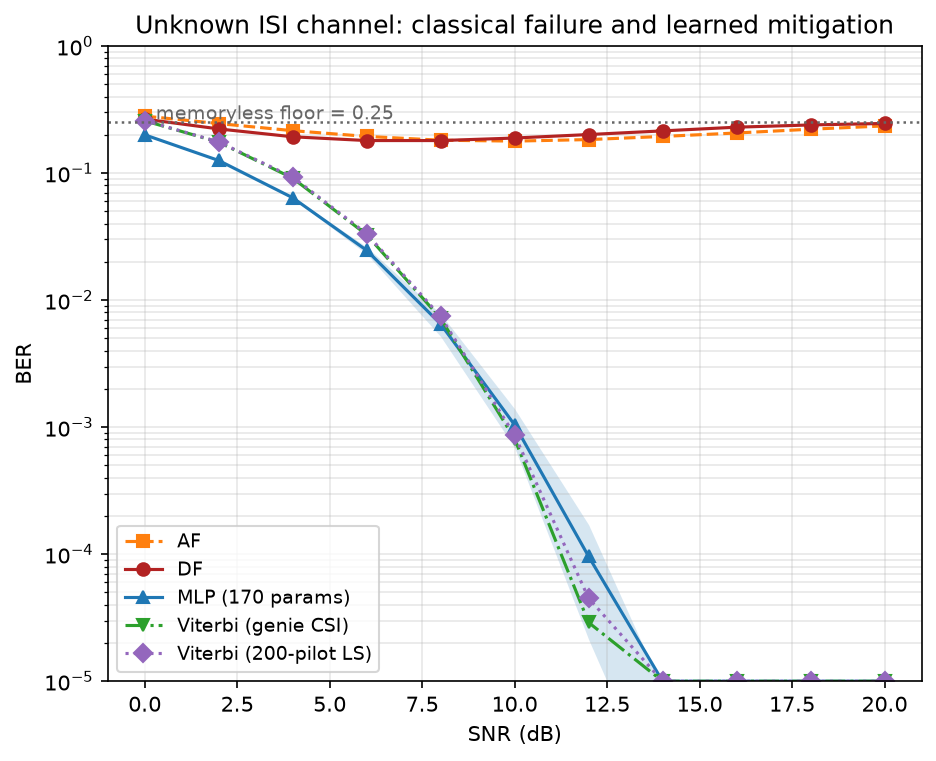
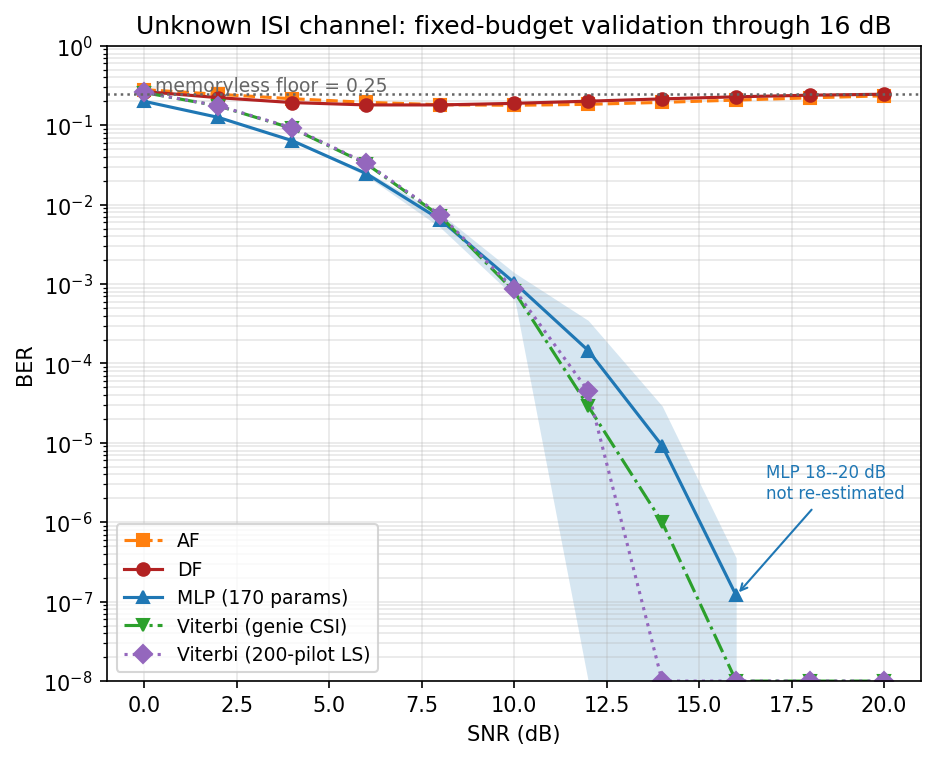
codex: update original ISI validation figure

diff --git a/thesis/chapters/ch07_unknown_and_mismatch_channels.tex b/thesis/chapters/ch07_unknown_and_mismatch_channels.tex
@@ -2,7 +2,7 @@
 
 This is the central chapter of the thesis. Everything before it is either calibration or a confirmatory result: on a matched, known channel a minimal learned relay does \emph{not} improve on classical decode-and-forward (H2), and raising the constellation order does not change that. Here the learned relay provides its clearest advantage over the memoryless classical relay baselines, while remaining below the performance of correctly informed sequence-optimal or BER-optimal classical detectors.
 
-The condition under which it wins is precise, and stating it is as much a part of the claim as the win itself. \textbf{When the channel's structure is unknown to the receiver chain, or lies outside the model class the classical relay assumes, a fixed 170-parameter learned relay restores reliable relaying where the evaluated memoryless classical relays, AF and zero-threshold symbol-wise DF, fail outright.} Under three-tap intersymbol interference (Table~\ref{tbl:tableE6}) the classical relays do not degrade gracefully: they saturate near the analytic $0.25$ floor and then get \emph{worse} as the SNR rises, symbol-wise DF bottoming out near 8~dB and climbing thereafter as hard decisions lock the interference in. No increase in transmit power removes this error floor for the memoryless relay architecture considered here. The learned relay, whose length-11 window spans the channel memory, restores a monotonically falling BER, with a substantial reduction at the fixed-budget operating points. The historical 16--20~dB rare-event estimates require independent fixed-budget validation. What separates the two is the function class and not the information available: this filter is fixed, and the relay is trained on it, whereas genie-CSI Viterbi receives exact taps at inference. Training on a fixed filter and receiving its exact coefficients are different forms of information. The evaluated zero-threshold symbol-wise slicer cannot compensate for the selected ISI channel at any transmit power. A detector whose observation spans the channel memory can exploit the additional temporal information; the windowed MLP evaluated here does so successfully, though spanning the memory is a necessary condition rather than a sufficient one. Whether a learned relay also copes with a channel it has \emph{not} seen is a separate question, answered at layers~3 and~4 below, where the channel is redrawn every block. That is not a marginal gain over a classical baseline; it is the difference between a working link and a broken one, and it is the thesis's answer to whether learning can defeat classical processing in relaying.
+The condition under which it wins is precise, and stating it is as much a part of the claim as the win itself. \textbf{When the channel's structure is unknown to the receiver chain, or lies outside the model class the classical relay assumes, a fixed 170-parameter learned relay restores reliable relaying where the evaluated memoryless classical relays, AF and zero-threshold symbol-wise DF, fail outright.} Under three-tap intersymbol interference (Table~\ref{tbl:tableE6}) the classical relays do not degrade gracefully: they saturate near the analytic $0.25$ floor and then get \emph{worse} as the SNR rises, symbol-wise DF bottoming out near 8~dB and climbing thereafter as hard decisions lock the interference in. No increase in transmit power removes this error floor for the memoryless relay architecture considered here. The learned relay, whose length-11 window spans the channel memory, restores a falling BER through the fixed-budget measurements at 12--16~dB, with a substantial reduction at those operating points. The historical 18--20~dB rare-event estimates remain exploratory pending independent fixed-budget validation. What separates the two is the function class and not the information available: this filter is fixed, and the relay is trained on it, whereas genie-CSI Viterbi receives exact taps at inference. Training on a fixed filter and receiving its exact coefficients are different forms of information. The evaluated zero-threshold symbol-wise slicer cannot compensate for the selected ISI channel at any transmit power. A detector whose observation spans the channel memory can exploit the additional temporal information; the windowed MLP evaluated here does so successfully, though spanning the memory is a necessary condition rather than a sufficient one. Whether a learned relay also copes with a channel it has \emph{not} seen is a separate question, answered at layers~3 and~4 below, where the channel is redrawn every block. That is not a marginal gain over a classical baseline; it is the difference between a working link and a broken one, and it is the thesis's answer to whether learning can defeat classical processing in relaying.
 
 The boundary of the claim is equally important. No statistically resolved advantage over matched MLSE is observed: given a reliable channel estimate, pilot-aided Viterbi remains ahead by approximately $1$--$1.5$~dB over the reported operating range. This is empirical, not an impossibility result, because MLSE minimizes sequence error rather than BER; the BER-optimal matched comparator is a bit-MAP/BCJR receiver. That comparator is reported at QPSK (Section~\ref{sec:bcjr-benchmark}), where it is never worse than MLSE but does not overturn the margin reported here; it is unmeasured at BPSK. The learned relay's advantage is therefore not demonstrated superior detection but the absence of a per-block channel-estimation precondition. Where the channel is fixed and known to both, it is simply the cheaper detector, constant and parallelizable per symbol against the trellis's $M^{L}$ branch metrics over $M^{L-1}$ states; where the channel must be identified and cannot be, it is the one that still functions, needing no per-block estimate --- though it is trained on the impairment family, and so is realization-agnostic rather than family-agnostic. Where the classical pipelines evaluated here can identify the channel they should be used; where they cannot, the learned relay is what still works. That is a statement about these comparators, not about classical receiver design in general.
 
@@ -23,7 +23,7 @@ Layer & Assumptions & Strongest classical & Outcome \\
 \bottomrule\noalign{}
 \endlastfoot
 1 & Memoryless, known channel, perfect CSI (Chapter~\ref{sec:experiments}) & Symbol-wise DF, zero trainable parameters & \textbf{Classical wins.} On the canonical QPSK/Rayleigh setup itself (Table~\ref{tbl:table2}), DF $0.1218$ against the MLP's $0.1229$ at 8~dB: the learned relay only matches DF, at 169 parameters against none (H2). \\
-2 & \;+ channel memory (3-tap ISI), CSI still perfect (Section~\ref{sec:unknown-channel-experiment}) & Viterbi MLSE with exact taps & \textbf{Split.} The memoryless relays break outright, DF rising from $0.1802$ at 8~dB to $0.2457$ at 20~dB. The MLP restores the link ($0.0065$ at 8~dB, against genie-CSI Viterbi's $0.0072$ at the same point --- the two are not separated there, and the ordering is nominally the MLP's). Viterbi's advantage is \emph{horizontal}, 1--1.5~dB of transmit power read across the mid-range of Figure~\ref{fig:figE6}, not a lower BER at every measured point; by 12~dB it is below the $5\times10^{-5}$ measurement floor while the MLP reads $9.60\times10^{-5}$. Neither is given an advantage in channel knowledge here --- the filter is fixed, supplied exactly to the trellis and represented directly in the relay's training data --- so this layer separates function classes rather than channel knowledge. The two forms of knowledge are not equivalent, and the row should not be read as claiming they are: the trellis holds the taps exactly at inference, whereas the relay holds them only as far as finite training data and a finite window let its weights approximate them. \\
+2 & \;+ channel memory (3-tap ISI), CSI still perfect (Section~\ref{sec:unknown-channel-experiment}) & Viterbi MLSE with exact taps & \textbf{Split.} The memoryless relays break outright, DF rising from $0.1802$ at 8~dB to $0.2457$ at 20~dB. The MLP restores the link ($0.0065$ at 8~dB, against genie-CSI Viterbi's $0.0072$ at the same point --- the two are not separated there, and the ordering is nominally the MLP's). Viterbi's advantage is \emph{horizontal}, 1--1.5~dB of transmit power read across the mid-range of Figure~\ref{fig:figE6}, not a lower BER at every measured point; by 12~dB it is below the $5\times10^{-5}$ measurement floor while the fixed-budget MLP estimate is $1.46\times10^{-4}$. Neither is given an advantage in channel knowledge here --- the filter is fixed, supplied exactly to the trellis and represented directly in the relay's training data --- so this layer separates function classes rather than channel knowledge. The two forms of knowledge are not equivalent, and the row should not be read as claiming they are: the trellis holds the taps exactly at inference, whereas the relay holds them only as far as finite training data and a finite window let its weights approximate them. \\
 3 & \;+ CSI uncertainty: a finite pilot budget (Section~\ref{sec:partial-posterior}) & Pilot-aided LS estimate then MLSE & \textbf{Crossover.} At 10~dB, Viterbi-est holds $0.0283$ on 200 pilots and $0.0335$ on 20, both beating the pilot-free MLP's $0.0486$; by 10 pilots it has degraded to $0.0545$ and the MLP leads. The classical advantage is real but purchased with pilots. \\
 4 & \;+ unseen realization from the trained family, redrawn per block (Sections~\ref{sec:composite-channel}, \ref{sec:blind-channel}) & CMA blind equalization & \textbf{Learned relay wins.} At 20~dB the MLP reaches $0.00262$ against CMA's $0.00329$, while decision-directed blind MLSE is unstable, non-monotonic and worse at 20~dB ($0.0498$) than at 16~dB ($0.0374$). The margin in BER is modest; the margin in stability and in per-block cost is not. \\
 \end{longtable}
@@ -141,17 +141,17 @@ Branch asymmetry & DF & 0.0669 & 0.0286 & 0.0121 / 0.0050 \\
  & MLP-170 & 0.0671 & 0.0287 & 0.0121 / 0.0050 \\
 \end{longtable}
 
-\textbf{Conclusion (H5: confirmed as stated, with one boundary):} Against the flat-channel control of Section~\ref{sec:flat-unknown-channels}, where unknown parameters alone caused no classical failure, the memory case is qualitatively different. On the unknown ISI channel, both evaluated memoryless classical relays --- AF and zero-threshold symbol-wise DF --- fail: DF's BER is \emph{non-monotonic}, bottoming out around 8 dB and then rising toward the analytic $0.25$ floor (Table~\ref{tbl:tableE6}; more transmit power makes DF strictly worse), and AF behaves identically. The 170-parameter MLP, whose window spans the 3-tap memory, learns a joint equalizer--detector and restores reliable relaying: its BER falls monotonically across the same sweep (Table~\ref{tbl:tableE6}). The Viterbi benchmarks set that boundary honestly: classical theory \emph{does} solve this channel once its family is known, and genie-CSI MLSE leads the MLP by 1--1.5 dB of transmit power across the mid-range; a 200-pilot LS estimate recovers genie performance almost exactly there too. That lead is a horizontal displacement of the curves in Figure~\ref{fig:figE6}, and it should not be read as a lower BER at every tabulated point: at the two ends of the sweep the ordering is not clean. Near the 0~dB floor the two are within noise of each other (both near the analytic $0.25$ ceiling), and at 8~dB the tabulated means have crossed ($0.0065$ for the MLP against $0.0072$), a separation far inside the interval the three-seed procedure of the evaluation protocol assigns to that cell. This does not contradict Viterbi's sequence-ML optimality; it means the \emph{margin} by which it holds is SNR-dependent and vanishes at that end of the sweep, not that the MLP overtakes it. Two things follow, and neither is about channel knowledge, since the filter here is fixed and the relay is trained on it exactly as Viterbi is given it. The first is that the \emph{function class} decides the outcome: the evaluated zero-threshold slicer cannot compensate for this channel at any transmit power, which is why DF worsens with SNR, while a relay whose window spans the memory recovers the link. The second is a complexity result: with the same channel information, 170 parameters land within 1--1.5~dB of the optimal sequence detector at a per-symbol cost that grows only linearly in the window spanning that memory, against the trellis's exponential $M^{L}$ branch metrics per symbol. The stronger property, mitigating channels whose \emph{family} is unknown or outside linear MLSE's model class, is not demonstrated by this experiment and is established later, by the composite cascade of Section~\ref{sec:composite-channel} and the posterior-free study of Section~\ref{sec:blind-channel}. The learned relay's distinctive value is near-MLSE reliability on an unseen realization from the impairment family it was trained on, with no per-block identification stage, and arithmetic that grows with the observation window rather than exponentially in the channel state. All of the above qualitative findings replicate across all three independent MLP training seeds: the non-monotonic DF failure, the MLP's monotonically decreasing BER, and the 1--1.5 dB gap to genie-CSI Viterbi are each present in every training instance. The pooled mean (Table~\ref{tbl:tableE6}) therefore reflects a structural property of the relay class rather than a fortunate parameter initialisation.
+\textbf{Conclusion (H5: confirmed as stated, with one boundary):} Against the flat-channel control of Section~\ref{sec:flat-unknown-channels}, where unknown parameters alone caused no classical failure, the memory case is qualitatively different. On the unknown ISI channel, both evaluated memoryless classical relays --- AF and zero-threshold symbol-wise DF --- fail: DF's BER is \emph{non-monotonic}, bottoming out around 8 dB and then rising toward the analytic $0.25$ floor (Table~\ref{tbl:tableE6}; more transmit power makes DF strictly worse), and AF behaves identically. The 170-parameter MLP, whose window spans the 3-tap memory, learns a joint equalizer--detector and restores reliable relaying: its fixed-budget BER falls through the confirmed 12--16~dB range (Table~\ref{tbl:tableE6}). The Viterbi benchmarks set that boundary honestly: classical theory \emph{does} solve this channel once its family is known, and genie-CSI MLSE leads the MLP by 1--1.5 dB of transmit power across the mid-range; a 200-pilot LS estimate recovers genie performance almost exactly there too. That lead is a horizontal displacement of the curves in Figure~\ref{fig:figE6}, and it should not be read as a lower BER at every tabulated point: at the two ends of the sweep the ordering is not clean. Near the 0~dB floor the two are within noise of each other (both near the analytic $0.25$ ceiling), and at 8~dB the tabulated means have crossed ($0.0065$ for the MLP against $0.0072$), a separation far inside the interval the three-seed procedure of the evaluation protocol assigns to that cell. This does not contradict Viterbi's sequence-ML optimality; it means the \emph{margin} by which it holds is SNR-dependent and vanishes at that end of the sweep, not that the MLP overtakes it. Two things follow, and neither is about channel knowledge, since the filter here is fixed and the relay is trained on it exactly as Viterbi is given it. The first is that the \emph{function class} decides the outcome: the evaluated zero-threshold slicer cannot compensate for this channel at any transmit power, which is why DF worsens with SNR, while a relay whose window spans the memory recovers the link. The second is a complexity result: with the same channel information, 170 parameters land within 1--1.5~dB of the optimal sequence detector at a per-symbol cost that grows only linearly in the window spanning that memory, against the trellis's exponential $M^{L}$ branch metrics per symbol. The stronger property, mitigating channels whose \emph{family} is unknown or outside linear MLSE's model class, is not demonstrated by this experiment and is established later, by the composite cascade of Section~\ref{sec:composite-channel} and the posterior-free study of Section~\ref{sec:blind-channel}. The learned relay's distinctive value is near-MLSE reliability on an unseen realization from the impairment family it was trained on, with no per-block identification stage, and arithmetic that grows with the observation window rather than exponentially in the channel state. The fixed-budget checkpoint means preserve the qualitative separation through 16~dB; they do not establish monotonicity beyond that range. The pooled mean (Table~\ref{tbl:tableE6}) therefore reflects a structural property of the relay class rather than a fortunate parameter initialisation.
 
 \textbf{Clarification on channel information.} The shorthand ``same channel information'' in the comparison above is not literal: MLSE receives the exact taps at inference, whereas the MLP receives fixed weights learned from samples of the fixed-filter channel. The comparison concerns their available model classes and their operating costs after training, not equality of their inference-time side information.
 
 \textbf{Note on simulation validity.}
-The observed AF/DF rise is specific to the evaluated relay mappings and tap vector; it is not a theorem about every memoryless relay or every ISI channel. The fixed-budget measurements at 12 and 14~dB support a large MLP improvement over those memoryless comparators. The historical 16--20~dB entries use exposure determined by the first error and are retained only as exploratory records. They do not establish the precise BER, a confidence bound valid under correlated errors, or monotonicity beyond the fixed-budget points; separately declared fixed-budget reruns are required before making those claims.
+The observed AF/DF rise is specific to the evaluated relay mappings and tap vector; it is not a theorem about every memoryless relay or every ISI channel. The fixed-budget measurements at 12, 14, and 16~dB support a large MLP improvement over those memoryless comparators. The historical 18--20~dB entries use exposure determined by the first error and are retained only as exploratory records. They do not establish the precise BER, a confidence bound valid under correlated errors, or monotonicity beyond the fixed-budget points; separately declared fixed-budget reruns are required before making those claims.
 
-\textbf{Status of the rare-event estimates.} Extending the exposure to $10N_1$ after the first error does not produce an ordinary fixed-budget estimate. The historical 16~dB entry records 16 errors in 334{,}002{,}040 bits; it is retained for traceability, not as a validated BER claim. The independent-error experiment in \texttt{rare\_event\_estimator\_bias.py} illustrates sensitivity to this stopping rule but does not establish confidence coverage for the correlated errors of a windowed ISI detector. Jensen's inequality does not establish invariance of the median under bursty errors. Fresh runs must declare their exposure before observing test errors and report independent block counts and training seeds; the historical 16--20~dB points must not support precision or monotonicity claims pending that validation.
+\textbf{Status of the rare-event estimates.} Extending the exposure to $10N_1$ after the first error does not produce an ordinary fixed-budget estimate. The historical 16~dB entry (16 errors in 334{,}002{,}040 bits) is retained only in the provenance record; it is replaced here by a predeclared fixed-budget confirmation: three independently trained checkpoints, each evaluated over $10^8$ bits in 1000 blocks. This run records 36 MLP errors in $3\times10^8$ bits and yields a mean BER of $1.20\times10^{-7}$; the wide across-checkpoint interval is descriptive rather than an i.i.d.-bit confidence claim. The 12 and 14~dB points likewise use three predeclared $10^7$-bit runs. The historical 18--20~dB values remain exploratory, are omitted from the MLP curve in Figure~\ref{fig:figE6}, and must not support precision or monotonicity claims pending the same validation.
 
 \begin{longtable}[]{@{}llllll@{}}
-\caption[Unknown-channel BER (adaptive bit budget; error-counting rare-event estimator at 16--20~dB)]{Unknown-channel BER, all entries from one three-seed run. Columns at 8~dB use 3 seeds $\times$ 10 trials $\times$ 100k bits; at 12~dB, 3 seeds $\times$ 10 trials $\times$ 10M bits; at 16--20~dB every relay uses the rare-event error-counting rule described in the accompanying note on simulation validity, and where no error is seen at all the entry is the rule-of-three $95\%$ upper bound $3/N$, not $1/N$. The ISI setup exhibits a memoryless-relay error floor; the MLP restores reliable relaying within $\approx$1--1.5 dB of genie-CSI Viterbi MLSE}\label{tbl:tableE6}\tabularnewline
+\caption[Unknown-channel BER (fixed-budget validation through 16~dB)]{Unknown-channel BER. The 8~dB column is the original three-seed, 10-trial measurement. At 12~dB, the listed AF, DF, and MLP values are means over three predeclared $10^7$-bit checkpoint evaluations; the 16~dB values use three predeclared $10^8$-bit evaluations. The MLP's 20~dB historical rule-of-three bound is shown only as an exploratory provenance record, not a validated BER estimate. The ISI setup exhibits a memoryless-relay error floor; the MLP restores reliable relaying within $\approx$1--1.5 dB of genie-CSI Viterbi MLSE through the validated range}\label{tbl:tableE6}\tabularnewline
 \toprule\noalign{}
 Setup & Relay & 8 dB & 12 dB & 16 dB & 20 dB \\
 \midrule\noalign{}
@@ -162,20 +162,20 @@ Setup & Relay & 8 dB & 12 dB & 16 dB & 20 dB \\
 \endhead
 \bottomrule\noalign{}
 \endlastfoot
-Unknown ISI $\to$ AWGN & AF & 0.1813 & 0.1834 & 0.2067 & 0.2349 \\
- & DF & 0.1802 & 0.2009 & 0.2296 & 0.2457 \\
- & \textbf{MLP (170p)} & \textbf{0.0065} & \textbf{$9.60\times10^{-5}$} & \textbf{$4.79\times10^{-8}{}^\dagger$} & \textbf{$<3.0\times10^{-10}{}^\ddagger$} \\
+Unknown ISI $\to$ AWGN & AF & 0.1813 & 0.1835 & 0.2075 & 0.2349 \\
+ & DF & 0.1802 & 0.2009 & 0.2280 & 0.2457 \\
+ & \textbf{MLP (170p)} & \textbf{0.0065} & \textbf{$1.456\times10^{-4}$} & \textbf{$1.20\times10^{-7}{}^\dagger$} & \textbf{exploratory $<3.0\times10^{-10}{}^\ddagger$} \\
  & Viterbi (genie CSI) & 0.0072 & $<$5e-5 & $<$5e-5 & $<$5e-5 \\
  & Viterbi (200-pilot LS) & 0.0074 & $<$5e-5 & $<$5e-5 & $<$5e-5 \\
-\multicolumn{6}{l}{\footnotesize $^\dagger$ 16~dB: 16 accumulated errors over 334{,}002{,}040 bits (first error at 33.4M, extended tenfold).} \\
-\multicolumn{6}{l}{\footnotesize $^\ddagger$ 20~dB: no error in 10G bits, giving the rule-of-three $95\%$ bound $3/N = 3.0\times10^{-10}$.} \\
-\multicolumn{6}{l}{\footnotesize AF and DF at 16--20~dB now come from the same error-counting run as every other cell, not from a separate pooled measurement.}
+\multicolumn{6}{l}{\footnotesize $^\dagger$ 16~dB fixed-budget confirmation: 36 MLP errors over 300M bits (three 100M-bit checkpoint evaluations).} \\
+\multicolumn{6}{l}{\footnotesize $^\ddagger$ 20~dB historical run: no error in 10G bits, giving rule-of-three $3/N = 3.0\times10^{-10}$; not used as a validated estimate.} \\
+\multicolumn{6}{l}{\footnotesize The corresponding 14~dB fixed-budget MLP mean, plotted in Figure~\ref{fig:figE6}, is $9.2\times10^{-6}$.}
 \end{longtable}
 
 \begin{figure}[htbp]
 \centering
 \pandocbounded{\includegraphics[width=\linewidth,height=0.24\textheight,keepaspectratio]{results/e6_unknown_channel.png}}
-\caption[Unknown-channel relaying, BER vs.\ SNR with 95\% CI bands]{Unknown-channel relaying, BER vs.\ SNR with 95\% CI bands. On the unknown ISI channel, the memoryless AF/DF relays are pinned near the analytic $0.25$ floor (DF non-monotonic in SNR); the 170-parameter MLP restores monotonically decreasing BER within $\approx$1--1.5 dB of genie-CSI Viterbi MLSE, which a 200-pilot LS estimate matches almost exactly}\label{fig:figE6}
+\caption[Unknown-channel relaying, fixed-budget validation through 16~dB]{Unknown-channel relaying, BER vs.\ SNR. Historical 0--10~dB values are retained; the 12--16~dB AF, DF, and MLP points and their 95\% across-checkpoint $t$ bands are replaced by predeclared fixed-budget measurements (three checkpoints; 10M bits/checkpoint at 12--14~dB and 100M at 16~dB). The MLP's 18--20~dB historical rare-event tail is intentionally omitted pending validation. AF/DF remain near the analytic $0.25$ floor; the MLP falls sharply through the validated range, while genie-CSI Viterbi and 200-pilot LS MLSE provide the model-aware reference}\label{fig:figE6}
 \end{figure}
 
 \subsection{Does the Result Generalize to QPSK?}\label{sec:qpsk-unknown-channel}

diff --git a/thesis/chapters/ch09_summary.tex b/thesis/chapters/ch09_summary.tex
@@ -55,7 +55,7 @@ H1 & Some AI relays outperform AF at low SNR & \textbf{Confirmed}: the best neur
 H2 & DF lowest-BER among per-symbol relays at high SNR & \textbf{Confirmed}: DF matches or beats all AI methods at \(\geq 6\) dB with 0 parameters \\
 H3 & An error minimum at intermediate capacity & \textbf{Not supported; weaker size claim holds}: 169 params matches 24K, and larger evaluated models did not improve BER. The size sweep of Section~\ref{sec:minimum-relay-size}, replicated over three initializations, finds no upturn above the $0.180$~dB across-initialization spread, so the overfitting hypothesis is unsupported on evidence rather than untested. The overfitting \emph{mechanism} remains unestablished, no train/test-gap analysis having been performed \\
 H4 & Equal parameter count eliminates architecture-dependent differences & \textbf{Rejected at low SNR; high-SNR convergence not seed-robust} (Table~\ref{tbl:seed-spread-3k}): at 3K params the six architectures span 4.1\% BER at 20~dB but 17.4\% at 0~dB, splitting into feedforward and sequence groups. Equalizing the budget required changing width, depth, state dimension and input window jointly (Table~\ref{tbl:table28}), so this equalizes capacity, not the other architectural degrees of freedom \\
-H5 & Memoryless classical relays fail on unknown channels; a minimal MLP mitigates by learning & \textbf{Confirmed}: on unknown ISI, AF/DF hit the analytic 0.25 floor (DF non-monotonic in SNR) while the 170-parameter MLP substantially reduces BER at the fixed-budget points (the historical 16--20~dB estimates await independent validation), within $\approx$1--1.5 dB of transmit power of genie-CSI Viterbi MLSE at BPSK; at QPSK the same trellis leads it by roughly $500\times$ in BER at 20~dB, so ``near the model-aware optimum'' is not claimed. The same architecture mitigates a composite ISI$\times$PA$\times$phase cascade without an analytic impairment model supplied at inference, while trained on the impairment family, tracking $\approx$2 dB behind pilot-aided Viterbi and matching blind CMA where no per-block channel estimate is available; the advantage is bounded to structural model-class mismatch representable at minimal capacity \\
+H5 & Memoryless classical relays fail on unknown channels; a minimal MLP mitigates by learning & \textbf{Confirmed}: on unknown ISI, AF/DF hit the analytic 0.25 floor (DF non-monotonic in SNR) while the 170-parameter MLP substantially reduces BER at the fixed-budget points, including $1.20\times10^{-7}$ at 16~dB (36 errors over 300M bits across three checkpoints). The historical 18--20~dB MLP tail remains exploratory. The MLP is within $\approx$1--1.5 dB of transmit power of genie-CSI Viterbi MLSE at BPSK; at QPSK the same trellis leads it by roughly $500\times$ in BER at 20~dB, so ``near the model-aware optimum'' is not claimed. The same architecture mitigates a composite ISI$\times$PA$\times$phase cascade without an analytic impairment model supplied at inference, while trained on the impairment family, tracking $\approx$2 dB behind pilot-aided Viterbi and matching blind CMA where no per-block channel estimate is available; the advantage is bounded to structural model-class mismatch representable at minimal capacity \\
 \end{longtable}
 
 Overall the evidence supports something narrower than a learned-versus-classical verdict. A compact learned relay supplies useful amortized processing where the modelling or estimation requirements of the particular classical receiver it is measured against are not met, and on channels with memory it offers a different complexity--accuracy tradeoff rather than a uniformly better one. Nothing measured here shows it superior to classical receiver design as a whole; the comparators are the specific pipelines implemented in this thesis, and reduced-state sequence estimation, decision-feedback equalization and reliability-weighted decoding are among the practical classical options left unevaluated. Stated plainly, the learned approach trades model knowledge, and a potentially lower arithmetic scaling, for a BER gap whose size depends on the channel family, the modulation, the observation window and what the classical receiver is assumed to know: negligible against a memoryless slicer on the canonical channel, decisive against a memoryless relay on a channel with memory, and roughly two to three orders of magnitude in the other direction against a correctly informed sequence detector at QPSK. Within that scope, learned relays are best used as targeted enhancements rather than universal replacements, with simplicity, parameter efficiency, and hybrid design as the practical principles that follow. The canonical conclusions hold for the \emph{uncoded}, symbol-level setting studied here (Remark~\ref{rem:df-terminology}); a supplementary coded study (Section~\ref{sec:coded-block-df}) measures where coding changes that standing: a rate-1/2 convolutional code with a genuine block-DF relay beats uncoded DF from $8$~dB upward, but by $20$~dB both learned relays overtake block-DF (one architecture already does at $16$~dB, the other still trails there), since a relay that decodes the code spends its redundancy before forwarding while a denoising relay leaves that redundancy intact for the destination to use. That reversal is measured against the block-DF baseline as implemented, and Section~\ref{sec:coded-block-df} is explicit that the baseline is handicapped: its Viterbi and BCJR metrics use unweighted post-equalization distances, and the soft variant a nominal noise variance, where post-equalization Rayleigh noise has variance $1/(2\gamma|h|^{2})$ per real axis. A reliability-weighted decoder given per-symbol CSI would be a stronger opponent than the one measured. The result is therefore a statement about this finite-block, mismatched-metric implementation, not a general structural claim that decode-and-forward must lose to denoising at high SNR. That advantage is bounded, not erased, once the code rate is itself allowed to adapt: maximizing goodput over a modulation-and-coding grid shows rate selection dominates the relay-decoding question by an order of magnitude, unless a latency deadline reopens the gap by forcing the block-DF relay's double buffering out of budget first. Extending the study to other channel families, multi-antenna configurations, and higher-order constellations as a relay-architecture question (16-QAM and denser, which need a joint $N$-class 2D relay) is identified in Chapter~\ref{sec:discussion-and-conclusions} as the principal direction for future work.

diff --git a/scripts/plot_e6_unknown_channel_awgn.py b/scripts/plot_e6_unknown_channel_awgn.py
@@ -14,10 +14,14 @@ e6_unknown_channel_results/e6_sim_ported_results.npy (setup "S1: unknown
 ISI -> AWGN"), plus the two Viterbi MLSE baselines (genie CSI and 200-pilot
 LS) from e6_unknown_channel_results/e6_viterbi_awgn.npy -- the same source
 verify_thesis_tables.py's check_tableE6 checks the table's Viterbi rows
-against. All five curves are pixel-for-pixel the same data already
-verified against Table tbl:tableE6's surviving AWGN row -- nothing is
-re-simulated or touched numerically. The Viterbi arrays carry no stored
-confidence interval, so only AF/DF/MLP get a shaded CI band.
+against. The five curve classes are verified against their declared sources.
+The historical
+0--10 dB values remain unchanged, while the AF/DF/MLP values at 12--16 dB
+are replaced with the predeclared fixed-budget results in
+e6_unknown_channel_results/codex_isi_fixed_budget_validation.json.  The MLP
+18--20 dB adaptive rare-event tail is deliberately omitted.  The Viterbi
+arrays carry no stored confidence interval, so only AF/DF/MLP get a shaded
+CI band.
 
 Figures are written to BOTH results/ and thesis/results/ so the repository
 copy and the copy main.tex compiles against never drift apart, matching the
@@ -28,6 +32,7 @@ PNG):
 
     python3 scripts/plot_e6_unknown_channel_awgn.py
 """
+import json
 import os
 
 import numpy as np
@@ -39,6 +44,7 @@ ROOT = os.path.dirname(os.path.dirname(os.path.abspath(__file__)))
 NPY_DIR = os.path.join(ROOT, "e6_unknown_channel_results")
 SIM_PATH = os.path.join(NPY_DIR, "e6_sim_ported_results.npy")
 VITERBI_PATH = os.path.join(NPY_DIR, "e6_viterbi_awgn.npy")
+FIXED_BUDGET_PATH = os.path.join(NPY_DIR, "codex_isi_fixed_budget_validation.json")
 OUT_DIRS = [os.path.join(ROOT, "results"), os.path.join(ROOT, "thesis", "results")]
 SETUP = "S1: unknown ISI -> AWGN"
 
@@ -59,25 +65,45 @@ def main():
     r = d["results"][SETUP]
     vg = np.load(VITERBI_PATH, allow_pickle=True).item()
 
+    # The original sweep used an adaptive, post-error extension at high SNR.
+    # Replace 12--16 dB by predeclared fixed-budget results.  The 16-dB
+    # confirmation supersedes the short initial run; the unvalidated MLP
+    # values at 18 and 20 dB are not silently shown as zero/floor points.
+    with open(FIXED_BUDGET_PATH, encoding="utf-8") as f:
+        fixed = json.load(f)["points"]
+    display = {}
+    for key, value in r.items():
+        display[key] = [np.asarray(part, dtype=float).copy() for part in value]
+    for snr_text, point in fixed.items():
+        idx = int(np.flatnonzero(snrs == float(snr_text))[0])
+        for relay in ("AF", "DF", "MLP"):
+            display[relay][0][idx] = point[relay]["mean"]
+            display[relay][1][idx] = point[relay]["ci95_halfwidth"]
+    display["MLP"][0][snrs > 16] = np.nan
+    display["MLP"][1][snrs > 16] = np.nan
+
     fig, ax = plt.subplots(figsize=(7, 5.5))
     for key, st in STYLE.items():
-        mu, ci = (np.asarray(v, dtype=float) for v in r[key])
-        ax.semilogy(snrs, np.maximum(mu, 1e-5), markersize=6, **st)
-        ax.fill_between(snrs, np.maximum(mu - ci, 1e-6), np.maximum(mu + ci, 1e-6),
+        mu, ci = display[key]
+        ax.semilogy(snrs, np.maximum(mu, 1e-8), markersize=6, **st)
+        ax.fill_between(snrs, np.maximum(mu - ci, 1e-8), np.maximum(mu + ci, 1e-8),
                         color=st["color"], alpha=0.18, lw=0)
     for key, st in VITERBI_STYLE.items():
         mu = np.asarray(vg[key], dtype=float)
-        ax.semilogy(snrs, np.maximum(mu, 1e-5), markersize=6, **st)
+        ax.semilogy(snrs, np.maximum(mu, 1e-8), markersize=6, **st)
 
     ax.axhline(0.25, color="0.4", ls=":", lw=1.2)
     ax.text(0.3, 0.25 * 1.06, "memoryless floor = 0.25", color="0.4", fontsize=9)
 
     ax.set_xlabel("SNR (dB)")
     ax.set_ylabel("BER")
-    ax.set_title("Unknown ISI channel: classical failure and learned mitigation")
-    ax.set_ylim(1e-5, 1e0)
+    ax.set_title("Unknown ISI channel: fixed-budget validation through 16 dB")
+    ax.set_ylim(1e-8, 1e0)
     ax.grid(True, which="both", alpha=0.3)
     ax.legend(loc="lower left", fontsize=9)
+    ax.annotate("MLP 18--20 dB\nnot re-estimated", xy=(16, 1.2e-7),
+                xytext=(16.8, 2e-6), fontsize=8, color=STYLE["MLP"]["color"],
+                arrowprops={"arrowstyle": "->", "color": STYLE["MLP"]["color"]})
 
     for out_dir in OUT_DIRS:
         os.makedirs(out_dir, exist_ok=True)

diff --git a/verify_thesis_tables.py b/verify_thesis_tables.py
@@ -382,6 +382,8 @@ def check_layers_table(tex, rep):
     snrs = list(sim["snrs"])
     i8, i20 = snrs.index(8), snrs.index(20)
     S1 = sim["results"]["S1: unknown ISI -> AWGN"]
+    fixed = json.load(open(os.path.join(
+        ROOT, "e6_unknown_channel_results/codex_isi_fixed_budget_validation.json")))
 
     # Layer 1 is "the canonical setup of Chapter 5, unmodified" -- it must
     # therefore be checked against Chapter 5's actual canonical result
@@ -419,10 +421,10 @@ def check_layers_table(tex, rep):
     if m:
         rep.cell(T, "L2/VITgenie@8dB", m.group(1), float(m.group(1)),
                  np.array(vit["VIT-genie"])[i8])
-    m = re.search(r"the MLP reads \$([\d.]+)\\times10\^\{-5\}\$", body)
+    m = re.search(r"fixed-budget MLP estimate is \$([\d.]+)\\times10\^\{-4\}\$", body)
     if m:
-        rep.cell(T, "L2/MLP@12dB", m.group(1), float(m.group(1)) * 1e-5,
-                 S1["MLP"][0][snrs.index(12)])
+        rep.cell(T, "L2/MLP@12dB", m.group(1), float(m.group(1)) * 1e-4,
+                 fixed["points"]["12"]["MLP"]["mean"])
 
     # Layer 3: the pilot-budget crossover at the 10 dB operating point.
     pa = partial["panel_a"]
@@ -957,7 +959,7 @@ def _e6_grouped(tex, label, npy_map, rep, snr_cols):
 
 
 def check_tableE6(tex, rep):
-    """Unknown-channel BER (tbl:tableE6). Sources: e6_sim + e6_viterbi npy."""
+    """Unknown-channel BER (tbl:tableE6). Sources: historical npy + fixed JSON."""
     T = "tbl:tableE6"; before = rep.checked
     body = table_body(tex, T)
     if body is None:
@@ -968,6 +970,8 @@ def check_tableE6(tex, rep):
                       allow_pickle=True).item()
     vg_ray = np.load(os.path.join(ROOT, "e6_unknown_channel_results/e6_viterbi_rayleigh.npy"),
                      allow_pickle=True).item()
+    fixed = json.load(open(os.path.join(
+        ROOT, "e6_unknown_channel_results/codex_isi_fixed_budget_validation.json")))
     snrs = list(sim["snrs"])
     col_snr = [(2, 8), (3, 12), (4, 16), (5, 20)]   # row: Setup & Relay & 8 & 12 & 16 & 20
 
@@ -1003,6 +1007,16 @@ def check_tableE6(tex, rep):
         # map tex relay name -> source
         def src_at(si):
             r = relay.upper()
+            snr = str(int(snrs[si]))
+            replacement = (
+                cur_setup == "Unknown ISI $\\to$ AWGN"
+                and snr in fixed["points"]
+                and ("AF" if r.startswith("AF") else
+                     "DF" if r.startswith("DF") else
+                     "MLP" if "MLP" in r else None)
+            )
+            if replacement:
+                return fixed["points"][snr][replacement]["mean"]
             if r.startswith("AF"):
                 return res["AF"][0][si]
             if r.startswith("DF"):
